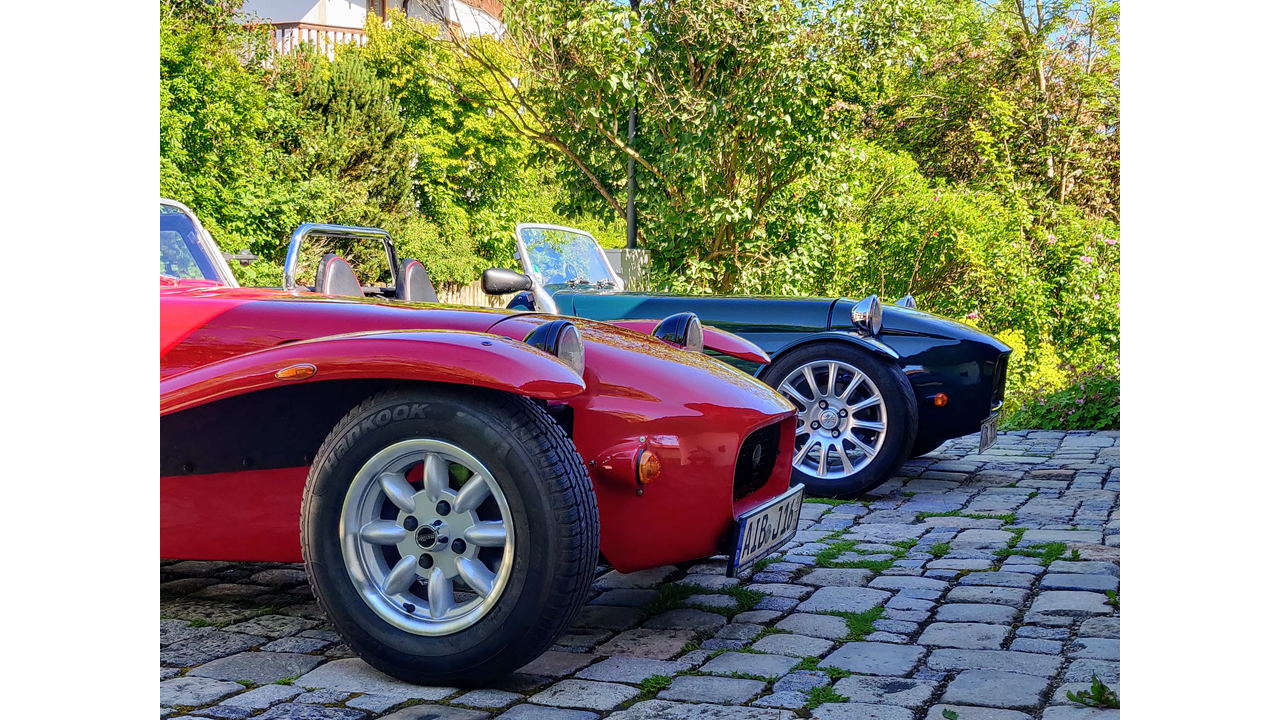
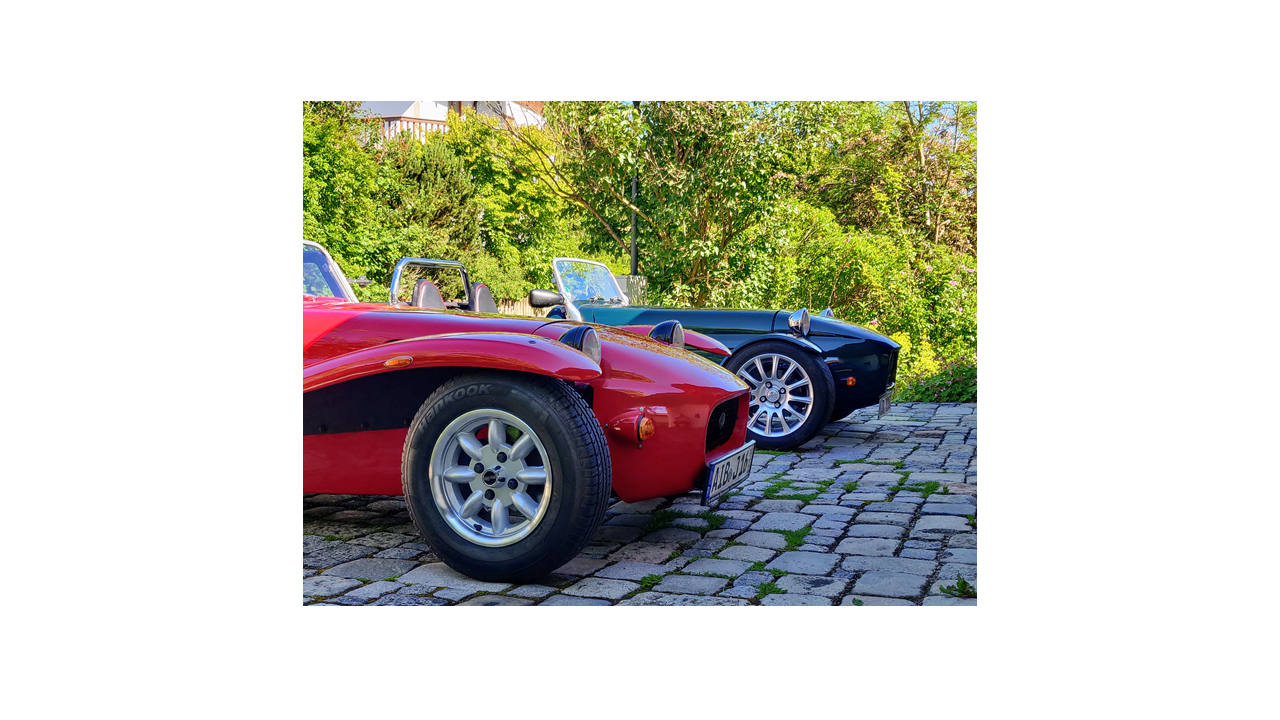
two westfields added

diff --git a/index.md b/index.md
@@ -1,3 +1,5 @@
+> Life is fun: [Two Westfields](content/2westfields.png)
+
 > Do we have a soul? [Find out](content/do_we_have_a_soul.md)
 
 > Was the Holy Roman Empire holy, roman or an empire at all? [Find out](content/holy_roman_empire.md)
@@ -9,5 +11,3 @@
 > Le français en voie de perdition ? [Découvrez](content/francais-perdition.md)
 
 > Modeste proposition pour la sauvegarde du bétail [Découvrez](content/animaux.md)
-
-![Two Westfields](content/2westfields.png)
